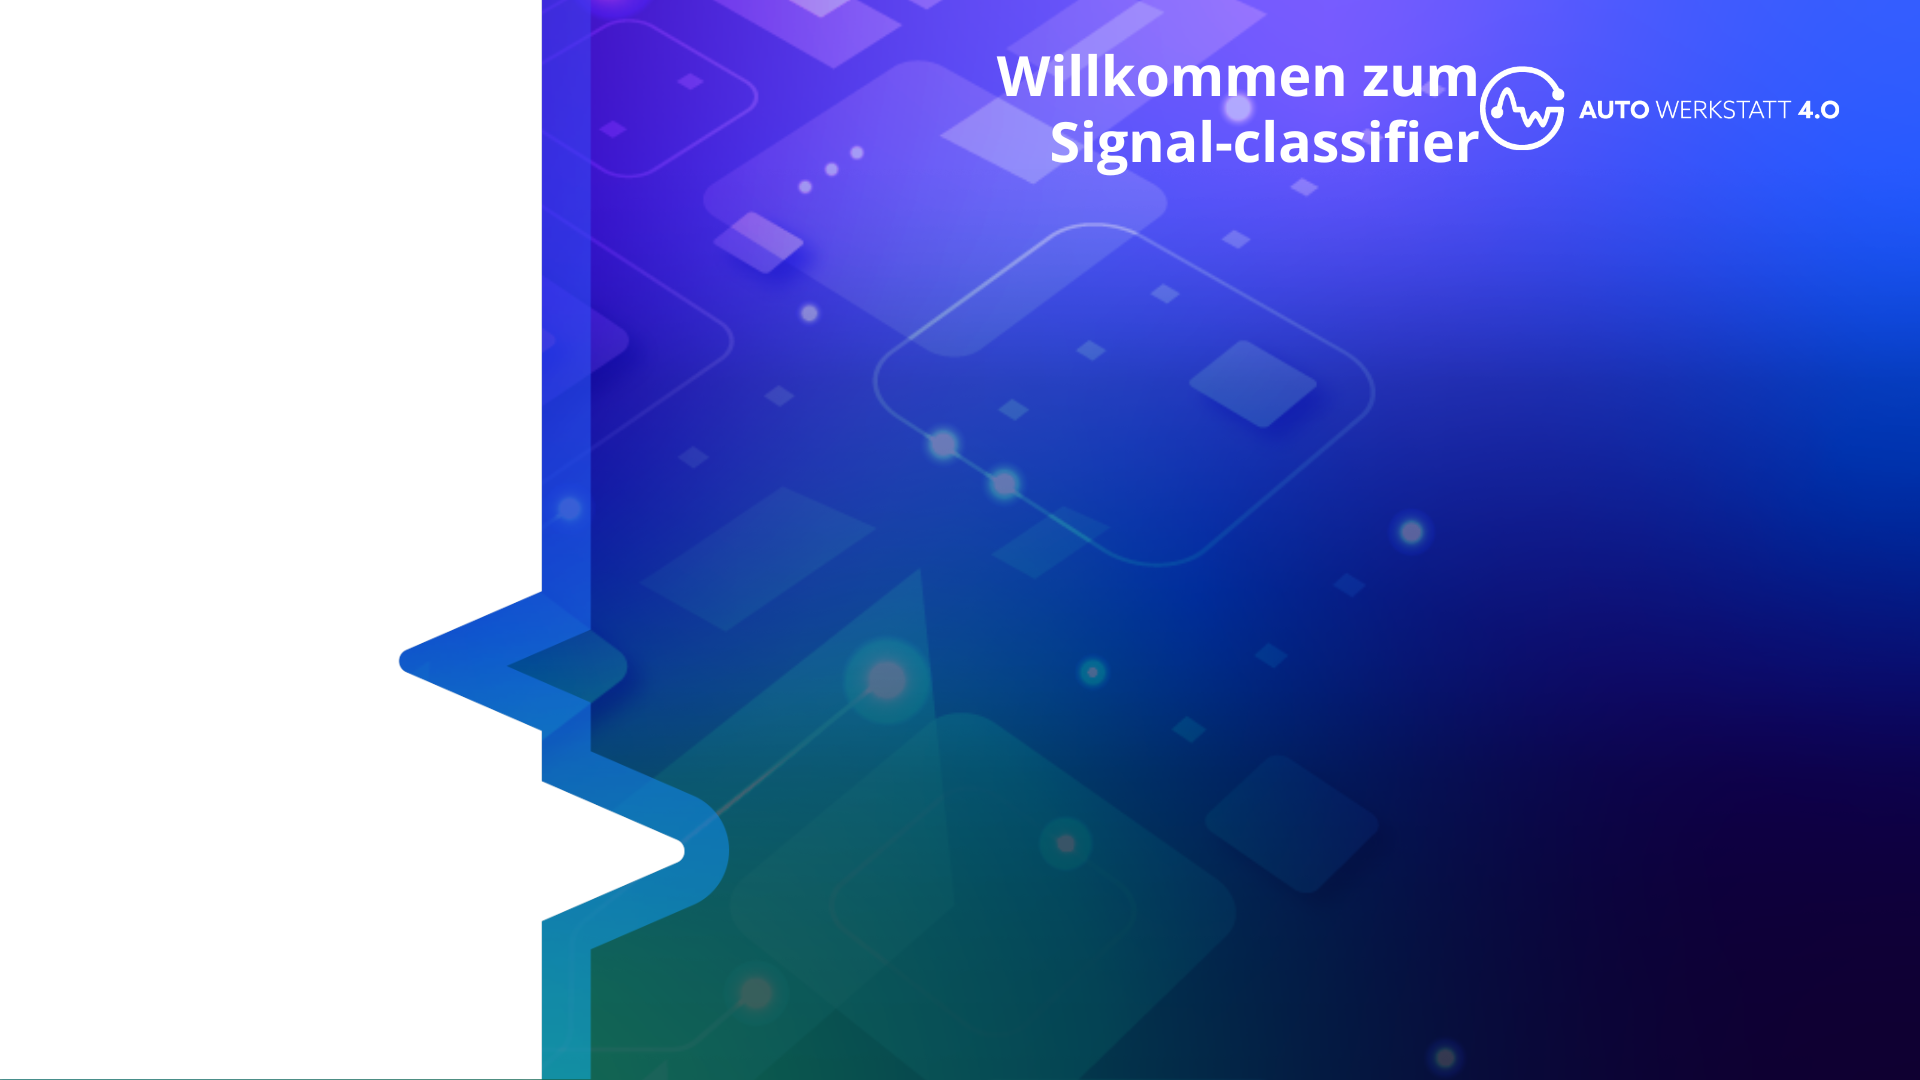
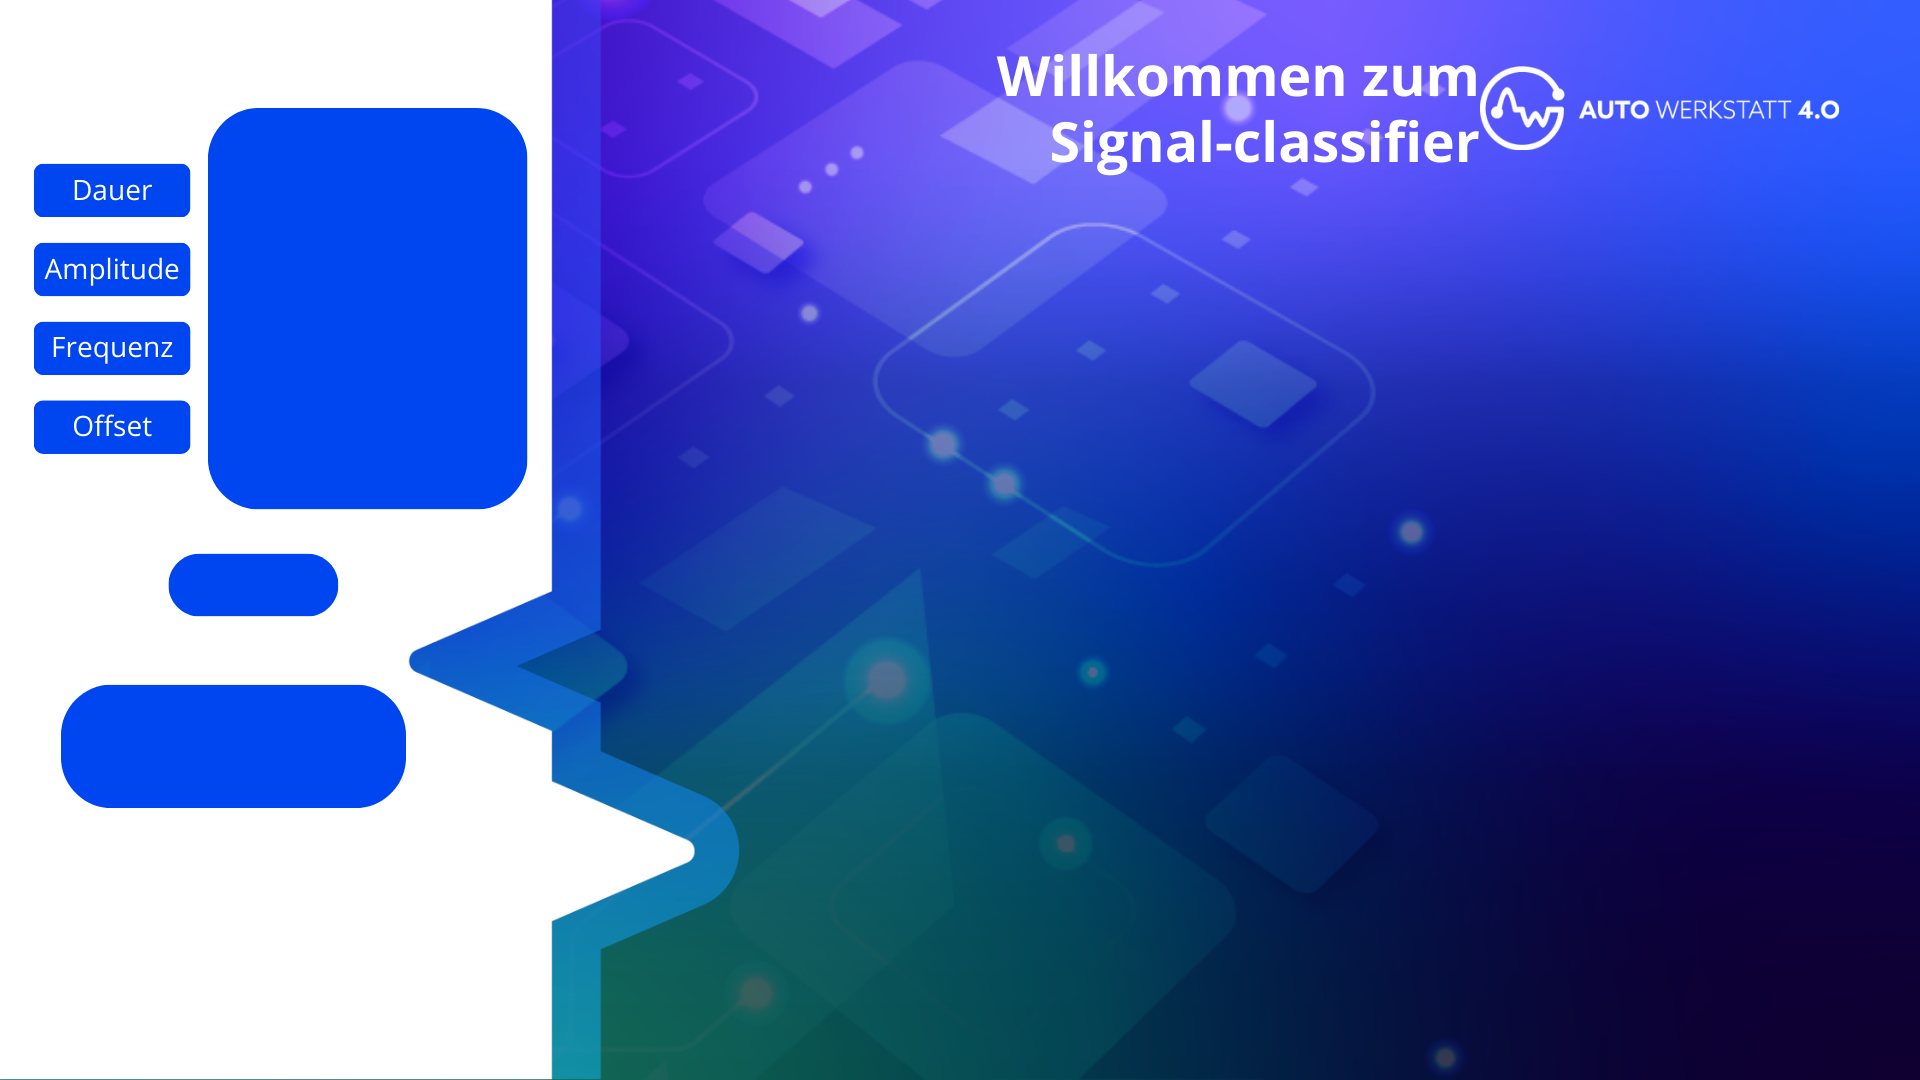
did the new gui not fineshed now

diff --git a/gui2p0 copy.py b/gui2p0 copy.py
@@ -1,0 +1,171 @@
+import tkinter as tk
+from tkinter import *
+from PIL import Image, ImageTk
+import tkinter.ttk as ttk
+from siglanGen import generate_signal, signal_functions
+from matplotlib.backends.backend_tkagg import FigureCanvasTkAgg
+from matplotlib.figure import Figure
+from tensorflow.keras.models import load_model
+import os
+from callModel import predict_label
+
+class FunctionalityManager:
+    def __init__(self, ui_manager):
+        self.ui_manager = ui_manager
+    
+    def start_button_click(self):
+        self.ui_manager.generate_signals_and_predict()        
+        
+class SignalClassifierGUI:
+    def __init__(self, master, ui_manager):
+        self.ui_manager = ui_manager
+        self.master = master
+
+        # Parameter
+        self.duration_var = tk.IntVar()
+        self.amplitude_var = tk.IntVar()
+        self.frequency_var = tk.IntVar()
+        self.sampling_rate_var = tk.IntVar()
+        self.offset_var = tk.DoubleVar()
+        
+
+        # Kleines Canvas im Haupt-Canvas
+        self.setup_sidebar_canvas()
+
+    def setup_sidebar_canvas(self):
+        self.sidebar_canvas = tk.Canvas(self.master, width=193, height=325, highlightbackground='#0046F0', bg='#0046F0')
+        self.sidebar_canvas.place(x=199, y=105)
+
+        # horizontale Scrollbars für Parameter
+        self.setup_parameter_slider("Dauer", 5, 25, 10, 23, self.duration_var)
+        self.setup_parameter_slider("Amplitude", 1, 10, 10, 100, self.amplitude_var)
+        self.setup_parameter_slider("Frequenz", 1, 8, 10, 178, self.frequency_var)
+        self.setup_parameter_slider("Offset", -10.5, 10.5, 10, 256, self.offset_var)
+
+    def setup_parameter_slider(self, label, from_val, to_val, x_pos, y_pos, variable):
+        # Label
+        label_widget = Label(self.sidebar_canvas, text=label, font=("MicrosoftJhengHei", 16), fg='white', bg='#0046F0')
+        label_widget.place(x=x_pos, y=y_pos)
+
+        # Slider
+        scale = Scale(self.sidebar_canvas, from_=from_val, to=to_val, orient="horizontal", bg='#0046F0',
+                      highlightbackground='#0046F0', troughcolor='white', font=("MicrosoftJhengHei", 16), fg='white',
+                      variable=variable)
+        scale.place(x=x_pos, y=y_pos + 30, width=160)
+
+class UIManager:
+    def __init__(self, master):
+        self.master = master
+        self.master.title("Signal Classifier")
+        self.master.geometry("999x1080")
+        self.master.attributes("-fullscreen", True)
+        self.functionality = FunctionalityManager(self)
+
+        self.signal_type_var = tk.StringVar()
+        self.setup_ui()
+        self.is_generated = False
+        
+
+    def setup_ui(self):
+        self.BG_canvas = Canvas(self.master, width=999, height=1080)
+        self.BG_canvas.pack(fill=BOTH, expand=True)
+        self.bg = PhotoImage(file="images/BG.png")
+        self.imgbox = self.BG_canvas.create_image(0, 0, image=self.bg, anchor='nw')
+
+        self.BG_canvas.create_text(190, 70, text="Signalparameter:", font=("MicrosoftJhengHei", 30), fill="#0046F0")
+        self.BG_canvas.create_text(170, 710, text="     Signal \n generieren", font=("MicrosoftJhengHei", 28), fill="white")
+        start_button_label_img = PhotoImage(file='images/spiel.png')
+        resized_image = start_button_label_img.subsample(3, 3)
+        self.start_button_image = resized_image
+        start_button_label = Label(image=resized_image)
+        self.button_generate_signals = Button(self.BG_canvas, image=resized_image, command=self.generate_signals_and_predict, borderwidth=0, background='white', activebackground='white')
+        self.button_generate_signals.place(x=115, y=800)
+
+        self.master.bind("<F11>", self.toggle_fullscreen)
+        self.master.bind("<Escape>", lambda event: self.master.attributes("-fullscreen", False))
+
+        self.signal_classifier_gui = SignalClassifierGUI(self.master, self)
+
+        # Label and Combobox for Signal Type
+        self.BG_canvas.create_text(72, 553, text="Signaltyp: ", font=("MicrosoftJhengHei", 15), fill="#0046F0")
+        style = ttk.Style()
+        style.configure("TCombobox", fieldbackground="#0046F0", foreground="#0046F0", inputbg="#0046F0",
+                        inputfg='#0046F0', background='#0046F0', border="#0046F0", bordercolor="#0046F0",
+                        highlightbackground='#0046F0', troughcolor='white')
+
+        combo_signal_type = ttk.Combobox(self.BG_canvas, style="TCombobox", textvariable=self.signal_type_var,
+                                         values=list(signal_functions.keys()), width=8, font=("MicrosoftJhengHei", 16),
+                                         background='#0046F0', foreground='#0046F0')
+        combo_signal_type.place(x=145, y=545)
+
+        # Leinwand für das Diagramm
+        self.frame = ttk.Frame(self.master)
+        self.canvas = FigureCanvasTkAgg(Figure(), master=self.frame)
+        self.canvas.draw()
+        self.canvas.get_tk_widget().place(relx=0, rely=0, relwidth=1, relheight=1, anchor='se')
+
+        # # Leinwand für das Diagramm
+        # self.frame = ttk.Frame(self.master)
+        # self.frame.place(relx=0.7, rely=0.7, relwidth=0.5, relheight=0.5, x=345, y=245, anchor='se')
+        # self.canvas = FigureCanvasTkAgg(Figure(), master=self.frame)
+        # self.canvas.draw()
+        # self.canvas.get_tk_widget().place(relx=0, rely=0, relwidth=1, relheight=1, anchor='se')
+        
+    def generate_signals_and_predict(self):
+        # Werte der Schieberegler und Eingabefelder, wenn der Button gedrückt wird
+        duration = self.signal_classifier_gui.duration_var.get()
+        amplitude = self.signal_classifier_gui.amplitude_var.get()
+        frequency = self.signal_classifier_gui.frequency_var.get()
+        sampling_rate = 1000
+        offset = self.signal_classifier_gui.offset_var.get()
+        signal_type = self.signal_type_var.get()
+        print(signal_type, duration, amplitude, frequency, sampling_rate, offset)
+        signal_function = signal_functions.get(signal_type)
+        if signal_function is None:
+            print(f"Error: Signalfunktion für '{signal_type}' nicht gefunden.")
+            return
+
+        time, signal = signal_function(duration, amplitude, frequency, sampling_rate, offset)
+
+        # Erstelle und platziere die Leinwand nach Bedarf
+        if not hasattr(self, 'canvas_placed'):
+            self.canvas.get_tk_widget().place(relx=0, rely=0, relwidth=1, relheight=1, anchor='se')
+            self.canvas_placed = True
+        time, signal = signal_function(duration, amplitude, frequency, sampling_rate, offset)
+
+        self.canvas.get_tk_widget().destroy
+        self.canvas = FigureCanvasTkAgg(generate_signal(time, signal), master=self.frame)
+        self.canvas.draw()
+        self.canvas.get_tk_widget().grid(row=0, column=3, columnspan=2, sticky=tk.W+tk.E+tk.N+tk.S)
+        model_path = os.path.join('models', 'Signalclassifier.h5')
+        # Modell laden
+        loaded_model = load_model(model_path)
+        csv_file_path = r'C:\Users\Engelmann\OneDrive\Dokumente\arbeit\autopulse-analytics-linas-ai-powered-clustering-for-cars\csv_file.csv'
+
+        answer = predict_label(csv_file_path)
+        print(answer)
+        # Assuming you have a prediction_label defined in your GUI
+        self.prediction_label.config(text=answer)
+
+    def toggle_fullscreen(self, event):
+        self.master.attributes("-fullscreen", not self.master.attributes("-fullscreen", False))
+
+    def update_image(self, image_path):
+        try:
+            pil_image = Image.open(image_path)
+            w, h = self.master.winfo_screenwidth(), self.master.winfo_screenheight()
+            pil_image = pil_image.resize((w, h), Image.BICUBIC)
+            self.photo_image = ImageTk.PhotoImage(pil_image)
+            self.BG_canvas.itemconfig(self.imgbox, image=self.photo_image)
+        except Exception as e:
+            print(f"Error updating image: {e}")
+
+def main():
+    root = tk.Tk()
+    ui_manager = UIManager(root)
+    functionality = FunctionalityManager(ui_manager)
+    ui_manager.update_image("images/BG.png")
+    root.mainloop()
+
+if __name__ == "__main__":
+    main()

diff --git a/gui2p0.py b/gui2p0.py
@@ -1,28 +1,57 @@
 import tkinter as tk
 from tkinter import *
 from PIL import Image, ImageTk
-from siglanGen import generate_rectangle_signal, signal_functions
-import tkinter.ttk as ttk
-from matplotlib.backends.backend_tkagg import FigureCanvasTkAgg
-from matplotlib.figure import Figure
-from tensorflow.keras.models import load_model
 import os
-import callModel
-from callModel import predict_label
+import tkinter.ttk as ttk
+from siglanGen import signal_functions 
 
 
 class FunctionalityManager:
-    def __init__(self, ui_manger):
-        self.ui_manager = ui_manger
-        
+    def __init__(self, ui_manager):
+        self.ui_manager = ui_manager
 
     def on_button_click(self):
         print('Button clicked!')
-        self.ui_manager.generate_signals_and_predict()
         
+        self.ui_manager.generate_signals_and_predict()
+
 class SignalClassifierGUI:
     def __init__(self, master, ui_manager):
         self.ui_manager = ui_manager
+        self.master = master
+
+        # Parameter
+        self.duration_var = tk.IntVar(value=5)
+        self.amplitude_var = tk.IntVar()
+        self.frequency_var = tk.IntVar()
+        self.sampling_rate_var = tk.IntVar()
+        self.offset_var = tk.DoubleVar()
+        self.signal_type_var = tk.StringVar()
+
+        # Kleines Canvas im Haupt-Canvas
+        self.sidebar_canvas = tk.Canvas(self.master, width=193, height=325, highlightbackground='#0046F0', bg='#0046F0')
+        self.sidebar_canvas.place(x=199, y=105)
+        
+        # Parameter
+        self.duration_var = tk.IntVar()
+        self.amplitude_var = tk.IntVar()
+        self.frequency_var = tk.IntVar()
+        self.sampling_rate_var = tk.IntVar()
+        self.offset_var = tk.DoubleVar()
+
+        # horizontale Scrollbars für Parameter 
+        duration_slider = Scale(self.sidebar_canvas, from_=5, to=25, orient="horizontal", bg='#0046F0', highlightbackground='#0046F0', troughcolor='white', command=self.on_parameter_scroll, font=("MicrosoftJhengHei", 16), fg='white')
+        duration_slider.place(x=10, y=32, width=160)
+        amplitude_slider = Scale(self.sidebar_canvas, from_=1, to=10, orient="horizontal", bg='#0046F0', highlightbackground='#0046F0', troughcolor='white', variable=self.amplitude_var, command=self.on_parameter_scroll, font=("MicrosoftJhengHei", 16), fg='white')
+        amplitude_slider.place(x=10, y=100, width=160)
+        frequency_slider = Scale(self.sidebar_canvas, from_=1, to=8, orient="horizontal", bg='#0046F0', highlightbackground='#0046F0', troughcolor='white', variable=self.frequency_var, command=self.on_parameter_scroll, font=("MicrosoftJhengHei", 16), fg='white')
+        frequency_slider.place(x=10, y=178, width=160)
+        offset_slider = Scale(self.sidebar_canvas, from_=-10.5, to=10.5, orient="horizontal", bg='#0046F0', highlightbackground='#0046F0', troughcolor='white', variable=self.offset_var, command=self.on_parameter_scroll, font=("MicrosoftJhengHei", 16), fg='white')
+        offset_slider.place(x=10, y=256, width=160)
+
+    def on_parameter_scroll(self, *args):
+        # Hier kannst du die Aktionen für jeden Parameter anpassen, falls nötig
+        pass
 
 class UIManager:
     def __init__(self, master):
@@ -31,32 +60,43 @@ class UIManager:
         self.master.geometry("999x1080")
         self.master.attributes("-fullscreen", True)
         self.functionality = FunctionalityManager(self)
+        
+        self.signal_type_var = tk.StringVar()
 
         self.setup_ui()
 
     def setup_ui(self):
         self.BG_canvas = Canvas(self.master, width=999, height=1080)
         self.BG_canvas.pack(fill=BOTH, expand=True)
-        self.bg =PhotoImage(file="images\BG.png")
+        self.bg = PhotoImage(file="images\BG.png")
         self.imgbox = self.BG_canvas.create_image(0, 0, image=self.bg, anchor='nw')
 
-        self.BG_canvas.create_text(190, 90, text="Signalparameter:", font=("MicrosoftJhengHei", 30), fill="#0046F0")
-        button1 = Button(self.master, text="Start", command=self.functionality.on_button_click)
-        button1_window = self.BG_canvas.create_window(10, 10, anchor="nw", window=button1)
+        self.BG_canvas.create_text(190, 70, text="Signalparameter:", font=("MicrosoftJhengHei", 30), fill="#0046F0")
+        start_button_label_img = PhotoImage(file=r'C:\Users\Engelmann\OneDrive\Dokumente\arbeit\autopulse-analytics-linas-ai-powered-clustering-for-cars\images\Bplay.png')
+        resized_image = start_button_label_img.subsample(2, 2)  # Hier kannst du die Verkleinerungsfaktoren anpassen
+        start_button_label = Label(image=resized_image)
+        button1 = Button(self.BG_canvas, start_button_label, command=self.functionality.on_button_click)
+        button1.place(x=145, y=745)
 
         self.master.bind("<F11>", self.toggle_fullscreen)
         self.master.bind("<Escape>", lambda event: self.master.attributes("-fullscreen", False))
-        
+
         self.signal_classifier_gui = SignalClassifierGUI(self.master, self)
-        
+
+        # Label and Combobox for Signal Type
+       
+        self.BG_canvas.create_text(72, 553, text="Signaltyp: ", font=("MicrosoftJhengHei", 15), fill="#0046F0")
+        style = ttk.Style()
+        self.master.title("Signal Classifier")
+        style.configure("TCombobox", fieldbackground="#0046F0", foreground="#0046F0", inputbg="#0046F0", inputfg='#0046F0', background='#0046F0', border="#0046F0", bordercolor="#0046F0",  highlightbackground='#0046F0', troughcolor='white' )
+
+        combo_signal_type = ttk.Combobox(self.BG_canvas, style="TCombobox", textvariable=self.signal_type_var, values=list(signal_functions.keys()), width=8, font=("MicrosoftJhengHei", 16), background='#0046F0', foreground='#0046F0')
+        combo_signal_type.place(x=145, y=545)  # Here you can adjust the side alignment
+
+
     def generate_signals_and_predict(self):
-        self.signal_classifier_gui.generate_signals()
-        model_path = os.path.join('models', 'Signalclassifier.h5')
-        loaded_model = load_model(model_path)
-        csv_file_path = r'C:\Users\Engelmann\OneDrive\Dokumente\arbeit\autopulse-analytics-linas-ai-powered-clustering-for-cars\csv_file.csv'
-        answer = predict_label(csv_file_path)
-        print(answer)
-        self.signal_classifier_gui.prediction_label.config(text=answer)  
+        # Here you can add the method to generate signals and make predictions
+        pass
 
     def toggle_fullscreen(self, event):
         self.master.attributes("-fullscreen", not self.master.attributes("-fullscreen", False))
@@ -72,10 +112,9 @@ class UIManager:
             print(f"Error updating image: {e}")
 
 def main():
-    functionality = FunctionalityManager()
-    root = Tk()
-
-    ui_manager = UIManager(root, functionality)
+    root = tk.Tk()
+    ui_manager = UIManager(root)
+    functionality = FunctionalityManager(ui_manager)
     ui_manager.update_image(r"C:\Users\Engelmann\OneDrive\Dokumente\arbeit\autopulse-analytics-linas-ai-powered-clustering-for-cars\images\BG.png")
     root.mainloop()
 

diff --git a/aw4null-theme.py b/aw4null-theme.py
@@ -1,0 +1,23 @@
+USER_THEMES = {
+    "aw4null": {
+        "type": "litera",
+        "colors": {
+            "primary": "#735aff",
+            "secondary": "#1e0096",
+            "success": "#0046f0",
+            "info": "#00c8ff",
+            "warning": "#f0ad4e",
+            "danger": "#d9534f",
+            "light": "#23ffc3",
+            "dark": "#1e0096",
+            "bg": "#ffffff",
+            "fg": "#0046f0",
+            "selectbg": "#ffffff",
+            "selectfg": "#ffffff",
+            "border": "#23ffc3",
+            "inputfg": "#ffffff",
+            "inputbg": "#0046f0",
+            "active": "#23ffc3"
+        }
+    }
+}

diff --git a/callModel.py b/callModel.py
@@ -22,7 +22,7 @@ def predict_label(csv_path):
 
         # Hier können Sie eine Schwellenwertlogik oder ähnliches anwenden, um das endgültige Label zu erhalten
         label = 1 if prediction > 0.5 else 0
-        label = "good" if prediction > 0.5 else "bad"
+        label = "Das Signal ist nicht verrauscht. " if prediction > 0.5 else "Das Signal ist verrauscht."
 
         return label
 
